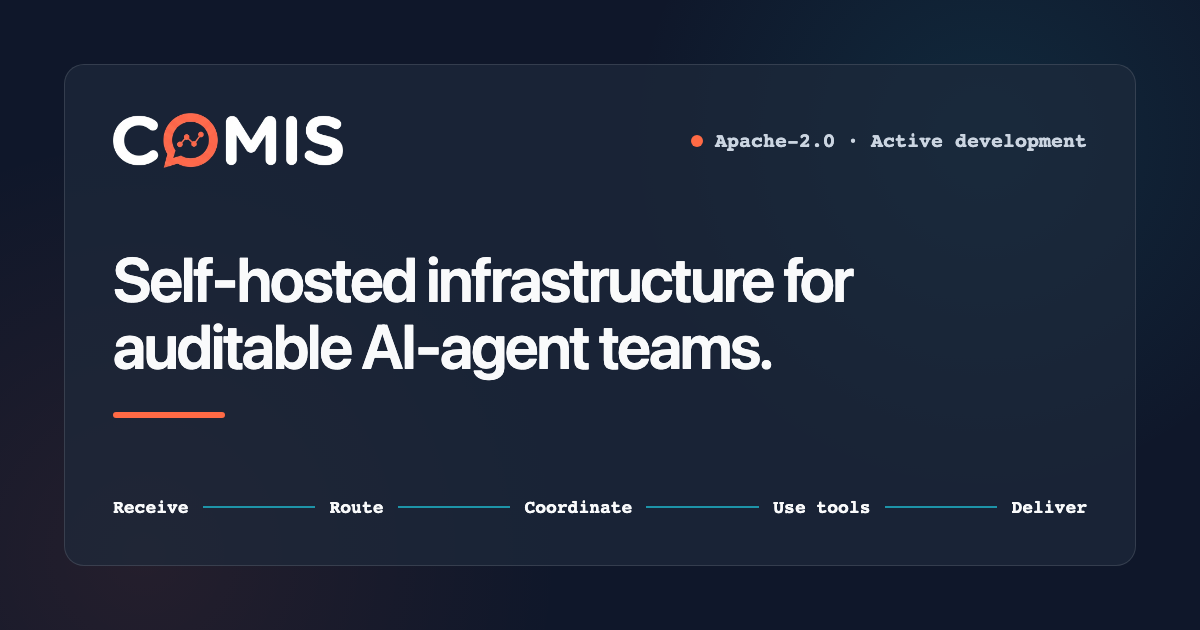
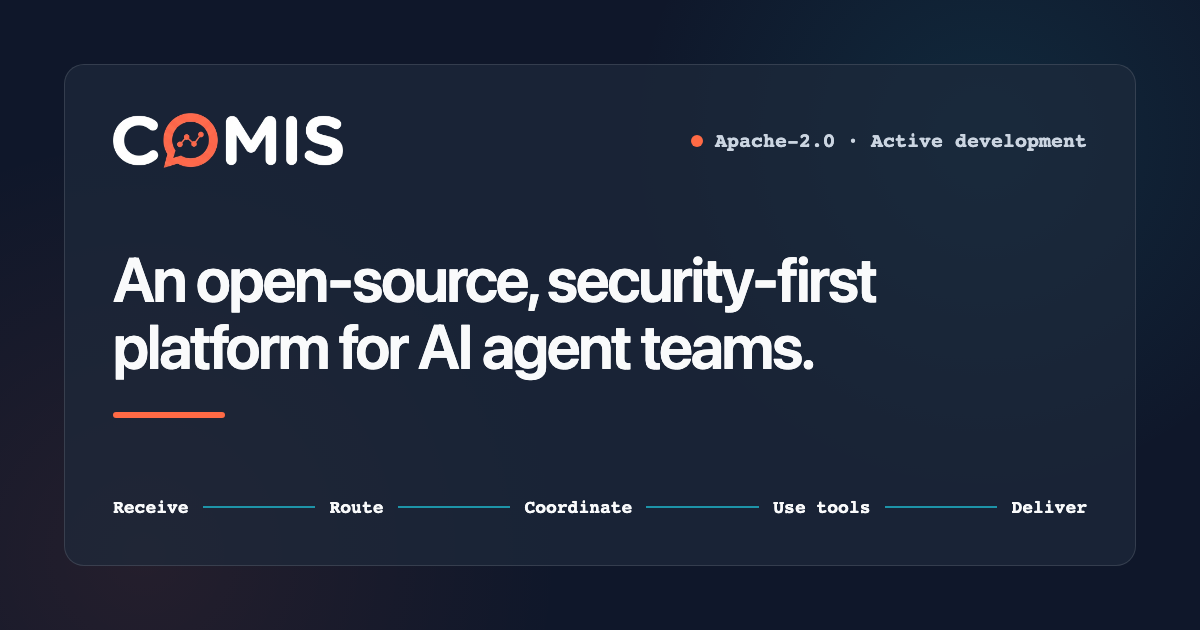
feat(website): align launch surface with verified positioning [F-12]

Changed region(s): [[0.0925, 0.3921, 0.74, 0.6032]]

diff --git a/website/src/data/site.ts b/website/src/data/site.ts
@@ -3,12 +3,13 @@
 export const SITE = {
   name: "Comis",
   url: "https://comis.ai",
-  title: "Comis — Auditable AI-agent teams on your infrastructure",
+  title: "Comis — Open-source, security-first AI agent teams",
   description:
-    "Run self-hosted AI-agent teams across messaging, APIs, schedules, and durable workflows with recoverable context, policy-driven secret access, and visibility.",
-  positioning: "Self-hosted infrastructure for auditable AI-agent teams.",
+    "Run AI agent teams across messaging, APIs, schedules, and durable workflows on infrastructure you control, with recoverable context and operational visibility.",
+  positioning: "An open-source, security-first platform for AI agent teams.",
   status: "Apache-2.0 · Active development",
-  installCommand: "curl -fsSL https://comis.ai/install.sh | bash",
+  installCommand: "curl -fsSL --proto '=https' --tlsv1.2 https://comis.ai/install.sh -o comis-install.sh",
+  npm: "https://www.npmjs.com/package/comisai",
   docs: "https://docs.comis.ai",
   installationDocs: "https://docs.comis.ai/installation",
   githubOrganization: "https://github.com/comisai",

diff --git a/website/scripts/social-card.html b/website/scripts/social-card.html
@@ -76,7 +76,7 @@
         <img src="../public/images/comis-logo.png" alt="Comis" />
         <div class="status">Apache-2.0 · Active development</div>
       </header>
-      <h1>Self-hosted infrastructure for auditable AI-agent teams.</h1>
+      <h1>An open-source, security-first platform for AI agent teams.</h1>
       <div class="flow" aria-hidden="true">
         <span class="node">Receive</span><span class="line"></span>
         <span class="node">Route</span><span class="line"></span>

diff --git a/website/public/copy-command.js b/website/public/copy-command.js
@@ -12,7 +12,7 @@ if (copyButton && copyLabel && copyStatus && command) {
     try {
       await navigator.clipboard.writeText(commandText);
       copyLabel.textContent = "Copied";
-      copyStatus.textContent = "Install command copied.";
+      copyStatus.textContent = "Installer download command copied.";
       copyButton.dataset.state = "success";
     } catch {
       const selection = window.getSelection();
